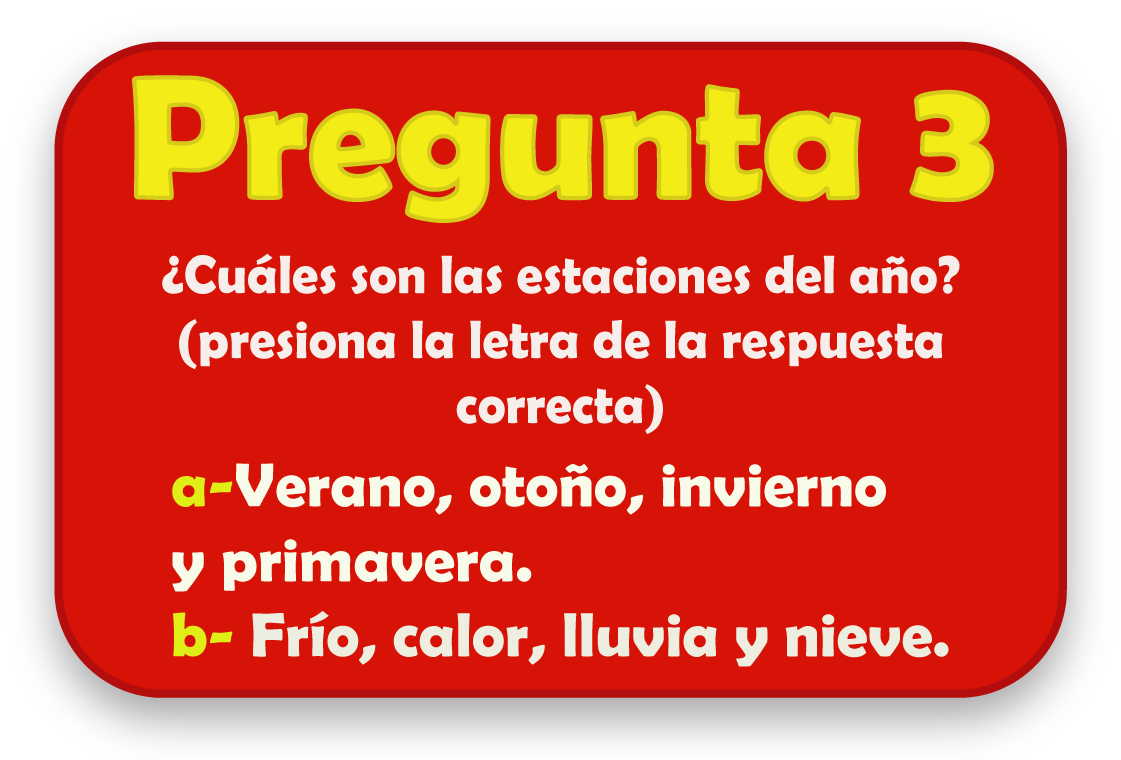
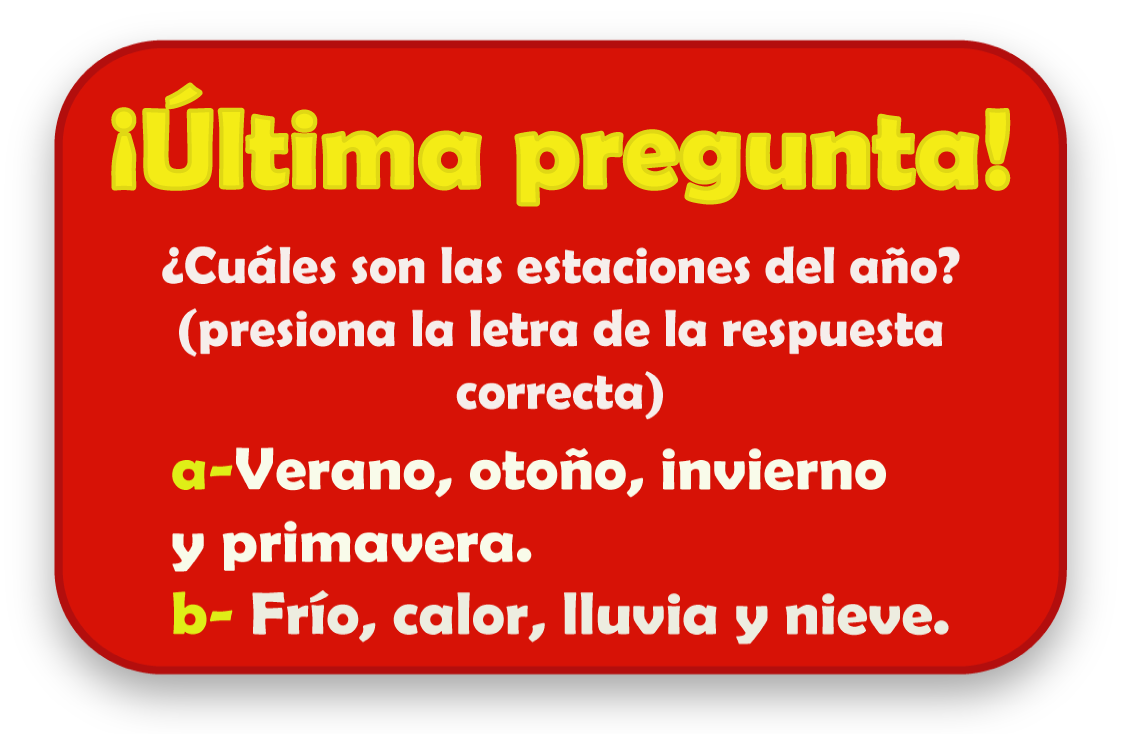
cambio de texto obstaculo 3

Changed region(s): [[0.0937, 0.0899, 0.9054, 0.2997], [0.8118, 0.8392, 0.843, 0.8692], [0.7493, 0.8392, 0.7806, 0.8692]]

diff --git a/src/scenes/Obstaculo3.js b/src/scenes/Obstaculo3.js
@@ -112,7 +112,7 @@ export default class Obstaculo3 extends Phaser.Scene {
       if (this.input.keyboard.addKey(Phaser.Input.Keyboard.KeyCodes.NUMPAD_TWO).isDown && !this.isPreguntaActive) {
         this.isPreguntaActive = true;
         this.textoTronco.setVisible(false);
-        this.pregunta1 = this.add.image(400, 250, "pregunta1").setScale(0.24);
+        this.pregunta1 = this.add.image(400, 230, "pregunta3").setScale(0.24);
       }
   
       if (this.isPreguntaActive && this.input.keyboard.addKey(Phaser.Input.Keyboard.KeyCodes.A).isDown) {

diff --git a/src/scenes/Precargas.js b/src/scenes/Precargas.js
@@ -67,7 +67,7 @@ export default class Precargas extends Phaser.Scene {
         frameRate: 2,
         repeat: -1,
       });
-      this.scene.start("menu");
+      this.scene.start("obstaculo3");
       
     }
     upload(){}
